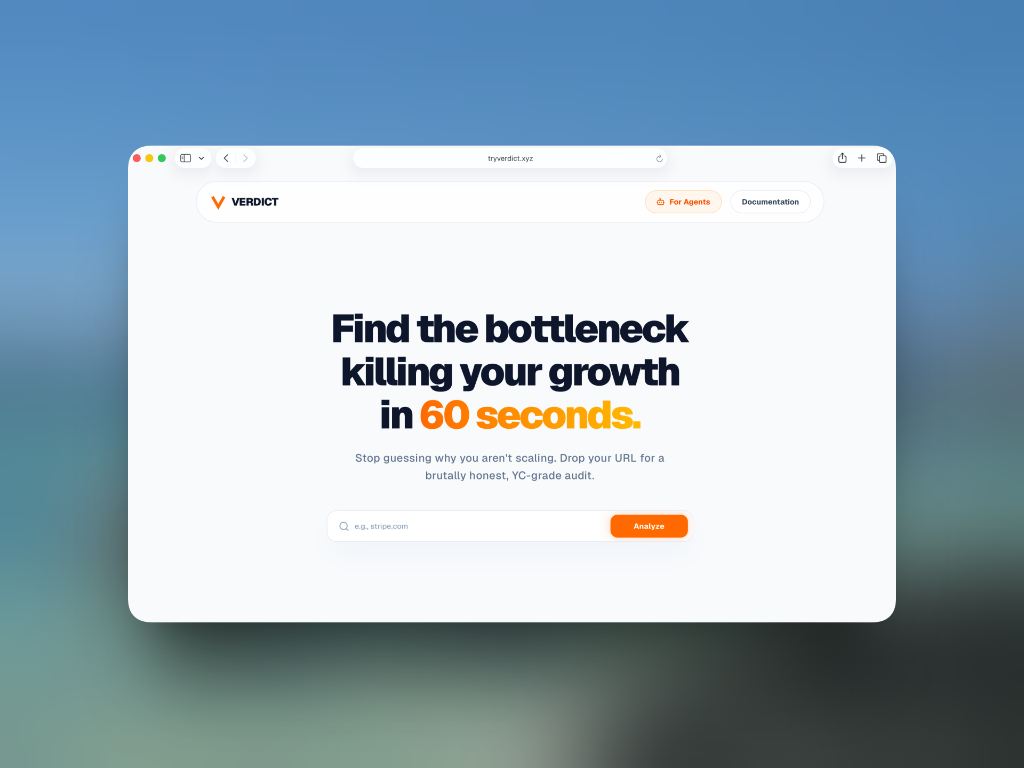
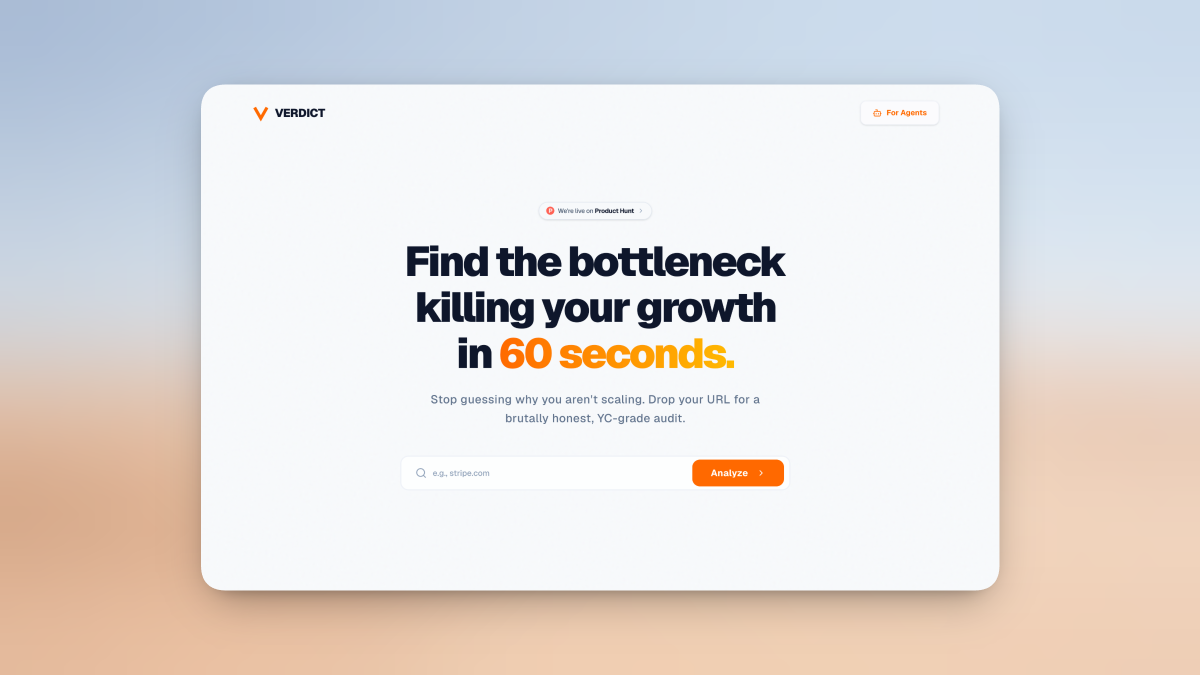
fix: simplify mermaid syntax and update preview image

diff --git a/README.md b/README.md
@@ -110,11 +110,11 @@ flowchart LR
     J[(X-Layer Blockchain<br/>OKX Web3 SDK)]
   end
 
-  %% Agent Flow (A2MCP)
-  Agent -->|1. Request Audit(s)| H
-  H -->|2. x402 Payment Challenge| J
+  %% Agent Flow A2MCP
+  Agent -->|1. Request Audits| H
+  H -->|2. x402 Challenge| J
   H -->|3. Route to Engine| B
-  H -->|4. Return Final Report(s)| Agent
+  H -->|4. Return Final Reports| Agent
 
   %% Human Flow
   A -->|1. Submit URL| B